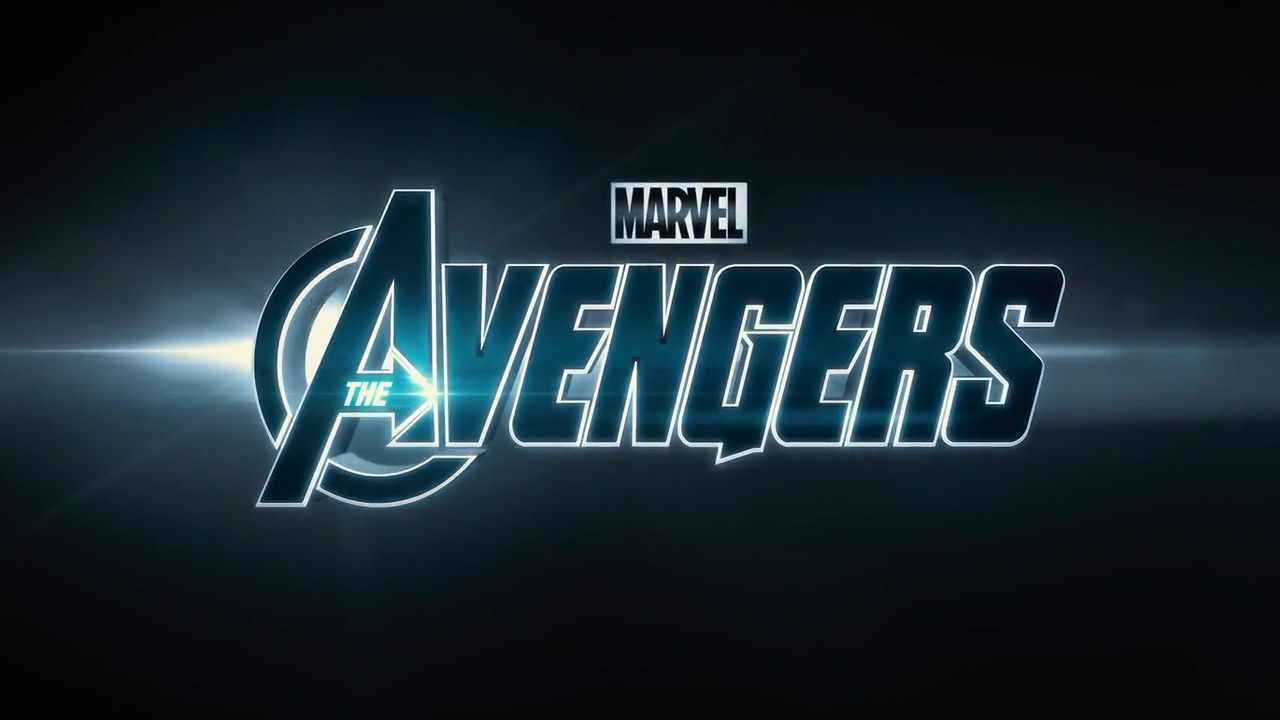
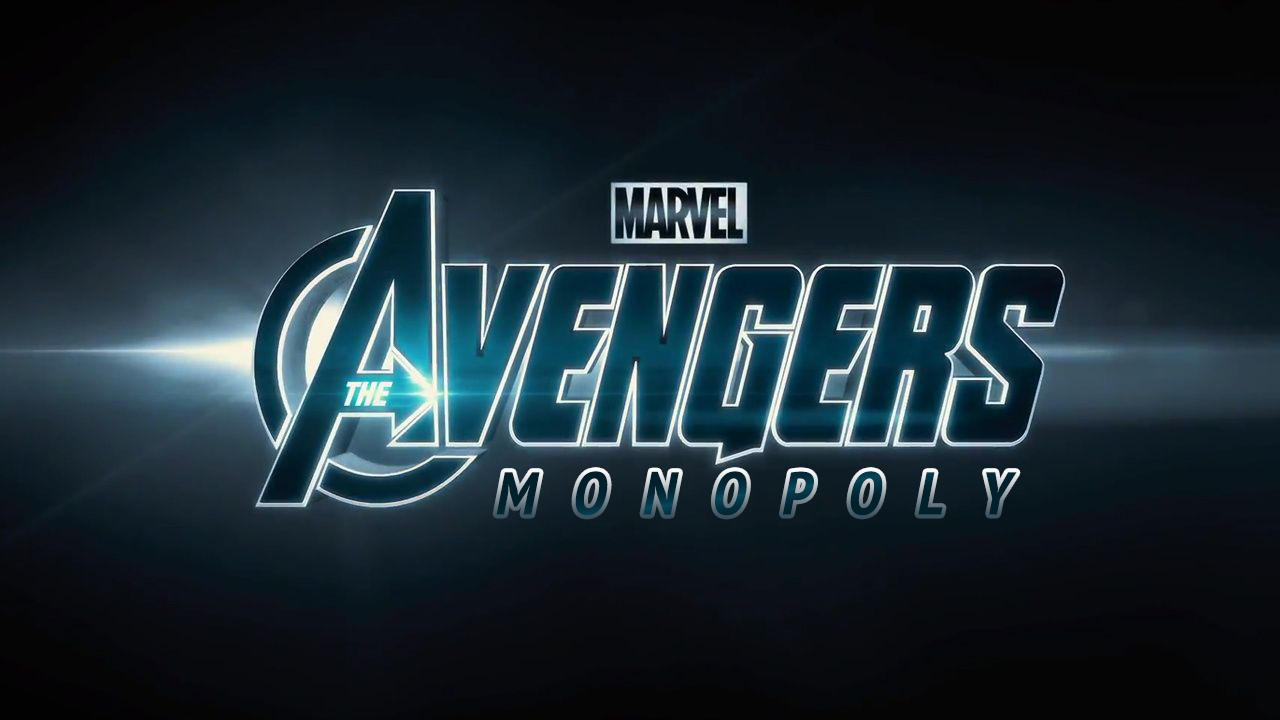
finish transfer

Changed region(s): [[0.375, 0.6417, 0.8125, 0.7333]]

diff --git a/frontend/src/components/NPC/Transfer.js b/frontend/src/components/NPC/Transfer.js
@@ -16,6 +16,7 @@ import {
   TableRow,
   TableCell,
   Table,
+  // Divider,
 } from "@mui/material";
 import SendIcon from "@mui/icons-material/Send";
 import HomeRoundedIcon from "@mui/icons-material/HomeRounded";
@@ -26,23 +27,41 @@ import TeamSelect from "../TeamSelect";
 
 const Transfer = () => {
   const [from, setFrom] = useState(-1);
+  const [fromData, setFromData] = useState({});
+
   const [to, setTo] = useState(-1);
+  const [toData, setToData] = useState({});
 
   const [building, setBuilding] = useState(-1);
   const [buildingData, setBuildingData] = useState({});
+  const [count, setCount] = useState(-1);
 
   const [amount, setAmount] = useState(0);
   const [errorMessage, setErrorMessage] = useState("");
   const [equal, setEqual] = useState(false);
   const [error, setError] = useState(false);
-  const [isEstate, setIsEstate] = useState(true);
-  const { teams, setTeams, role, filteredBuildings } = useContext(RoleContext);
+  const { role, filteredBuildings } = useContext(RoleContext);
   const navigate = useNavigate();
+
+  const handleFrom = async (from) => {
+    const { data } = await axios.get("/team/" + from);
+    // console.log(data);
+    setFromData(data);
+    setFrom(from);
+  };
+
+  const handleTo = async (to) => {
+    const { data } = await axios.get("/team/" + to);
+    // console.log(data);
+    setToData(data);
+    setTo(to);
+  };
+
   const handleClick = async () => {
     const payload = {
       from: from,
       to: to,
-      IsEstate: isEstate,
+      IsEstate: building !== -1,
       dollar: parseInt(amount),
       equal: equal,
     };
@@ -56,11 +75,23 @@ const Transfer = () => {
       setBuilding(building);
       setBuildingData(data);
       if (data.owner !== 0) {
-        setTo(data.owner);
+        handleTo(data.owner);
       }
-      if (data.level !== 0) {
-        setAmount(data.rent[data.level - 1]);
+      const res = await axios.post("/series", {
+        teamId: data.owner,
+        area: data.area,
+      });
+      const c = res.data.count;
+      setCount(res.data.count);
+
+      if (data.type === "building") {
+        if (data.level !== 0) {
+          setAmount(data.rent[data.level - 1]);
+        }
+      } else {
+        setAmount(c * 5000);
       }
+      // console.log(res.data.count);
     } else {
       setBuilding(-1);
       setBuildingData({});
@@ -68,19 +99,14 @@ const Transfer = () => {
   };
 
   const handlePercentMoney = (percent) => {
-    const item = teams.find((element) => element.teamname === `第${from}小隊`);
-    const money = item.money; //find the team's money
+    const money = fromData.money; //find the team's money
     setAmount(Math.round(money * percent));
     setEqual(false);
   };
 
   const handleEqualMoney = () => {
-    let money_from = teams.find(
-      (element) => element.teamname === `第${from}小隊`
-    ).money; //first team (using the card)
-    let money_to = teams.find(
-      (element) => element.teamname === `第${to}小隊`
-    ).money; //second team(passive)
+    let money_from = fromData.money; //first team (using the card)
+    let money_to = toData.money; //second team(passive)
     let temp = Math.round((money_from - money_to) / 2);
     setAmount(temp);
     setEqual(true);
@@ -116,35 +142,38 @@ const Transfer = () => {
           Preview Building
         </Typography>
         <PropertyCard {...buildingData} />
-        <Typography variant="body1" component="p">
-          Series Count: {123}
-        </Typography>
 
-        {/* <TableContainer component={Paper}>
-          <Table aria-label="rent-table" size="small">
-            <TableBody>
-              <TableRow>
-                <TableCell align="center">
-                  <HomeRoundedIcon />
-                </TableCell>
-                <TableCell align="center">
-                  <HomeRoundedIcon />
-                  <HomeRoundedIcon />
-                </TableCell>
-                <TableCell align="center">
-                  <HomeRoundedIcon />
-                  <HomeRoundedIcon />
-                  <HomeRoundedIcon />
-                </TableCell>
-              </TableRow>
-              <TableRow>
-                <TableCell align="center">1</TableCell>
-                <TableCell align="center">2</TableCell>
-                <TableCell align="center">3</TableCell>
-              </TableRow>
-            </TableBody>
-          </Table>
-        </TableContainer> */}
+        {buildingData.type === "building" ? (
+          <TableContainer component={Paper}>
+            <Table aria-label="rent-table" size="small">
+              <TableBody>
+                <TableRow>
+                  <TableCell align="center">
+                    <HomeRoundedIcon />
+                  </TableCell>
+                  <TableCell align="center">
+                    <HomeRoundedIcon />
+                    <HomeRoundedIcon />
+                  </TableCell>
+                  <TableCell align="center">
+                    <HomeRoundedIcon />
+                    <HomeRoundedIcon />
+                    <HomeRoundedIcon />
+                  </TableCell>
+                </TableRow>
+                <TableRow>
+                  <TableCell align="center">{buildingData.rent[0]}</TableCell>
+                  <TableCell align="center">{buildingData.rent[1]}</TableCell>
+                  <TableCell align="center">{buildingData.rent[2]}</TableCell>
+                </TableRow>
+              </TableBody>
+            </Table>
+          </TableContainer>
+        ) : null}
+
+        <Typography variant="body1" component="p">
+          Series Count: {count}
+        </Typography>
       </Box>
     );
   };
@@ -177,19 +206,18 @@ const Transfer = () => {
                 <TableCell align="center">{to}</TableCell>
               </TableRow>
               <TableRow>
-                <TableCell align="center">Buff</TableCell>
-                <TableCell align="center">No</TableCell>
-                <TableCell align="center">No</TableCell>
-              </TableRow>
-              <TableRow>
                 <TableCell align="center">Before</TableCell>
-                <TableCell align="center">{123}</TableCell>
-                <TableCell align="center">{123}</TableCell>
+                <TableCell align="center">{fromData.money}</TableCell>
+                <TableCell align="center">{toData.money}</TableCell>
               </TableRow>
               <TableRow>
                 <TableCell align="center">After</TableCell>
-                <TableCell align="center">{123}</TableCell>
-                <TableCell align="center">{123}</TableCell>
+                <TableCell align="center">
+                  {fromData.money - parseInt(amount)}
+                </TableCell>
+                <TableCell align="center">
+                  {toData.money + parseInt(amount)}
+                </TableCell>
               </TableRow>
             </TableBody>
           </Table>
@@ -236,7 +264,7 @@ const Transfer = () => {
           <TeamSelect
             label="From.."
             team={from}
-            handleTeam={setFrom}
+            handleTeam={handleFrom}
             hasZero={false}
           />
         </FormControl>
@@ -247,7 +275,7 @@ const Transfer = () => {
           <TeamSelect
             label="To.."
             team={to}
-            handleTeam={setTo}
+            handleTeam={handleTo}
             hasZero={false}
             sx={{ marginBottom: 2 }}
           />

diff --git a/backend/src/initdata.js b/backend/src/initdata.js
@@ -455,7 +455,7 @@ const effects = [
   {
     id: 1,
     title: "地產增值(I)",
-    description: "使你的房地產租金提升至150%, 效果持續10分鐘。不可疊加使用",
+    description: "房地產租金提升至150%, 效果持續10分鐘。不可疊加使用",
     trait: 1,
     duration: 600,
     bonus: 1.5,
@@ -464,7 +464,7 @@ const effects = [
     id: 2,
     title: "財產凍結",
     description:
-      "選擇一個小隊, 其他小隊踩到此小隊的房產無須付租金, 效果持續5分鐘",
+      "其他小隊踩到此小隊的房產無須付租金, 效果持續5分鐘",
     trait: 1,
     duration: 300,
     bonus: 0,
@@ -490,7 +490,7 @@ const effects = [
   {
     id: 5,
     title: "地產增值(II)",
-    description: "使你的房地產租金提升至200%, 效果持續10分鐘。不可疊加使用",
+    description: "房地產租金提升至200%, 效果持續10分鐘。不可疊加使用",
     trait: 1,
     duration: 600,
     bonus: 2,

diff --git a/backend/src/api.js b/backend/src/api.js
@@ -77,7 +77,7 @@ router.get("/team", async (req, res) => {
 });
 
 router.get("/team/:teamId", async (req, res) => {
-  const team = await Team.findOne({ teamId: req.params.teamId });
+  const team = await Team.findOne({ id: req.params.teamId });
   res.json(team).status(200);
 });
 
@@ -180,6 +180,14 @@ router.post("/add", async (req, res) => {
     }
   }
   res.status(200).send("Update succeeded");
+});
+
+router.post("/series", async (req, res) => {
+  const { teamId, area } = req.body;
+  const count = await (
+    await Land.find({ area, owner: teamId })
+  ).filter((land) => land.owner > 0).length;
+  res.json({ count }).status(200);
 });
 
 router.post("/transfer", async (req, res) => {
@@ -380,7 +388,7 @@ router.post("/effect", async (req, res) => {
     type,
     teamname,
     title,
-    description,
+    description: `${teamname}: ${description}`,
     duration,
     createdAt: time,
   };

diff --git a/frontend/src/components/NPC/SetOwnership.js b/frontend/src/components/NPC/SetOwnership.js
@@ -54,7 +54,11 @@ const SetOwnership = () => {
     const { data } = await axios.get("/land/" + building);
     setBuilding(building);
     setBuildingData(data);
-    setLevel(data.level + 1);
+    if (data.type === "building") {
+      setLevel(data.level + 1);
+    } else {
+      setLevel(0);
+    }
   };
 
   const handleClose = (e, reason) => {
@@ -140,6 +144,7 @@ const SetOwnership = () => {
             </Select>
             {level - buildingData.level !== 1 &&
             team !== -1 &&
+            buildingData.type === "building" &&
             building !== -1 ? (
               <FormHelperText error={true}>
                 Not Upgrading 1 level!!!

diff --git a/frontend/src/components/Header.js b/frontend/src/components/Header.js
@@ -55,7 +55,10 @@ const Header = () => {
         console.error(error);
       });
     setFilteredBuildings(
-      buildings.filter((building) => building.type === "Building")
+      buildings.filter(
+        (building) =>
+          building.type === "Building" || building.type === "SpecialBuilding"
+      )
     );
   };
 

diff --git a/frontend/src/components/NavBar/NavStyle.js b/frontend/src/components/NavBar/NavStyle.js
@@ -9,7 +9,8 @@ export const NavBarStyles = {
       color: "rgba(255, 255, 255, 0.7)",
     },
     "& .Mui-selected": {
-      color: "rgba(51,153,255,0.7)",
+      // color: "rgba(51,153,255,0.7)",
+      color: "#EFA53A",
     },
   },
   icons: {

diff --git a/frontend/src/components/LogIn.js b/frontend/src/components/LogIn.js
@@ -90,7 +90,7 @@ const LogIn = () => {
             disabled={!(user && password)}
             onClick={handleClick}
           >
-            Log In
+            Login
           </Button>
         </FormControl>
       </Box>
